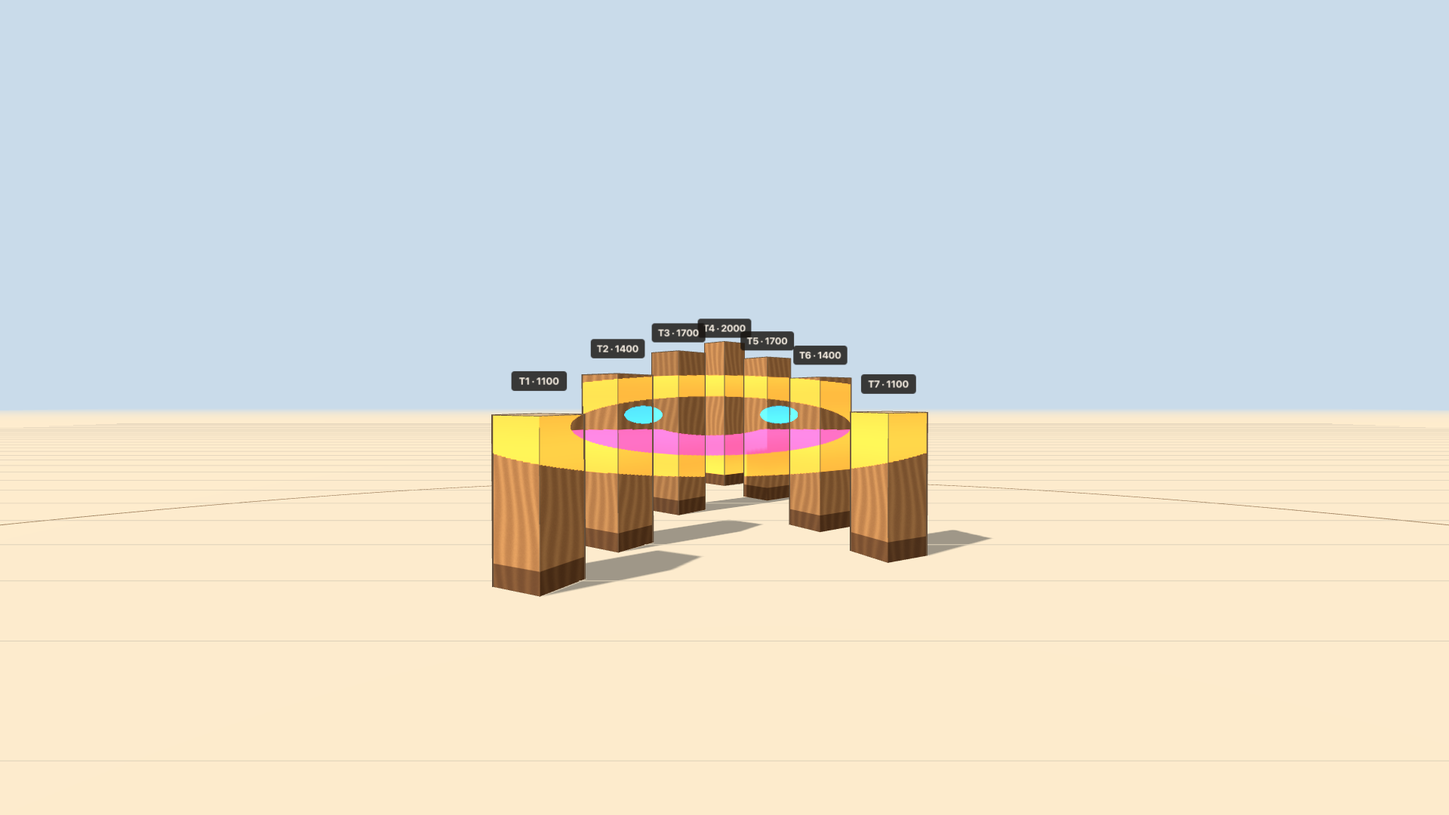
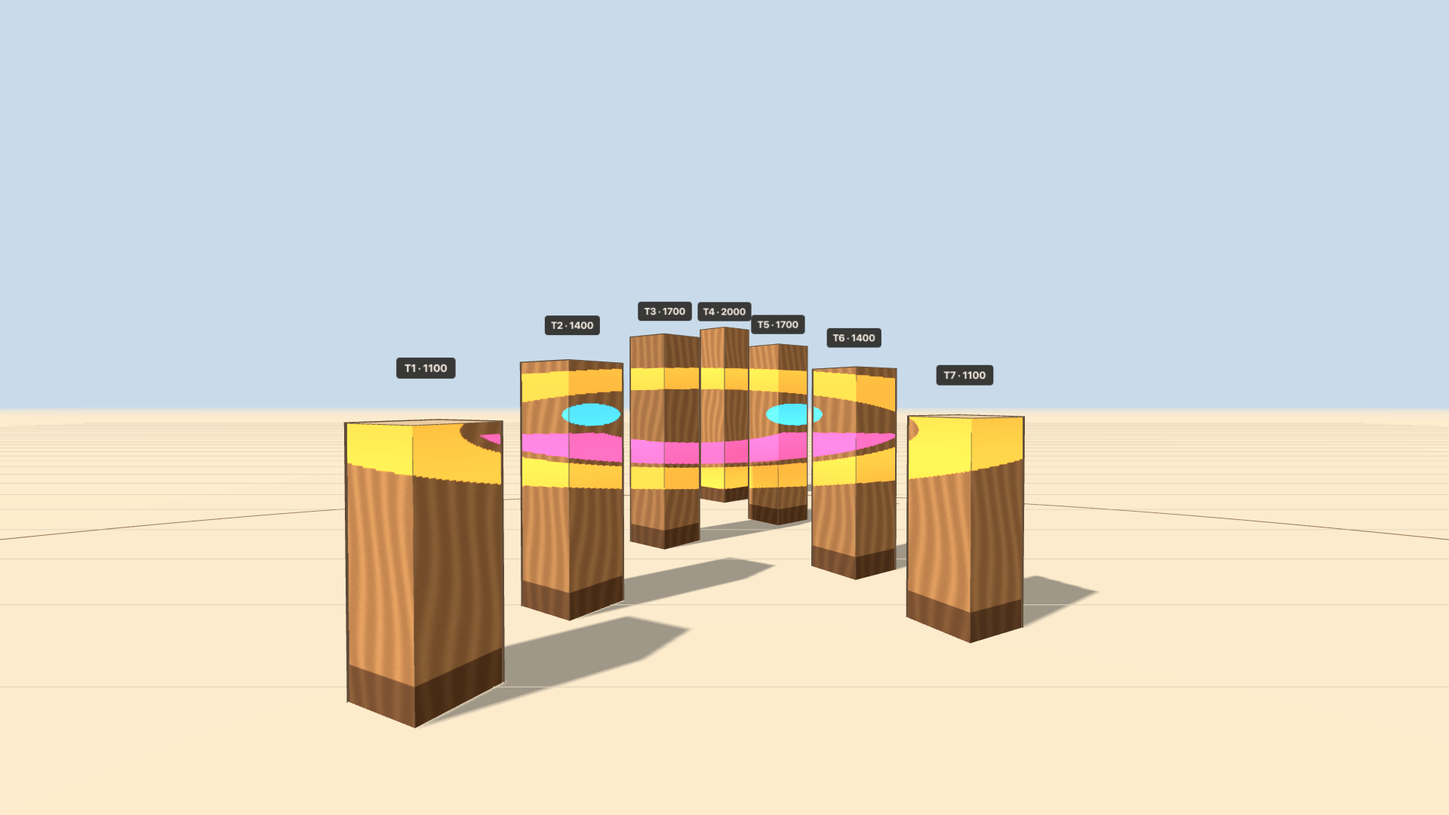
Sightline tool: bench at the centre, one eye point per statue
The audience sits on a circular bench at the centre facing out (owner,
2026-10-21; hence the 1200 mm eye). New bench-diameter control (default
3000 mm, a placeholder until the artist gives the size). Each statue gets
its own eye point on the bench edge: an eye-view button per statue, the
figure placed at each point, and the mural, level-top heights, gaps and
readout angles taken from that point. The solver places towers so they
touch from the eye point. Bench clearance is checked and exported; files
without a bench load with the eye at the centre.

Changed region(s): [[0.2188, 0.3667, 0.75, 0.8861], [0.8125, 0.6111, 0.8438, 0.6417]]

diff --git a/tools/statue_render.html b/tools/statue_render.html
@@ -79,7 +79,8 @@ body.shot .panel, body.shot .views, body.shot #pad, body.shot #hint, body.shot #
 <div id="view"></div>
 
 <div class="views" role="group" aria-label="Viewpoint">
-  <button id="btnCentre" aria-pressed="true" title="Press again to reset the camera">Centre view (eye)</button>
+  <button id="btnCentre" aria-pressed="true" title="Eye on the bench edge, facing statue 1. Press again to reset the camera">Eye · statue 1</button>
+  <button id="btnCentre2" aria-pressed="false" title="Eye on the bench edge, facing statue 2. Press again to reset the camera">Eye · statue 2</button>
   <button id="btnDrone" aria-pressed="false" title="Press again to reset the camera">Drone view</button>
   <button id="btnTop" aria-pressed="false">Top-down view</button>
   <button id="btnDrag" aria-pressed="false" title="Move towers by dragging them in any view">✥ Drag towers</button>
@@ -187,6 +188,7 @@ body.shot .panel, body.shot .views, body.shot #pad, body.shot #hint, body.shot #
     smin: num('smin', 1000), smax: num('smax', 3000), sopt: num('sopt', 3000),     // owner, 2026-10-21
     diam: num('d', 18000),
     clear: num('clear', 2350),          // smallest radius the viewer must have free at the centre
+    bench: num('bench', 3000),         // circular bench at the centre, mm; the audience sits on its edge facing out. PLACEHOLDER: the artist has not given the size
     mode: q.get('mode') === 'straight' ? 'straight' : 'touch',
     arm: num('arm', 25),
     eye: num('eye', 1200),               // owner, 2026-10-21: the audience sits
@@ -205,6 +207,7 @@ body.shot .panel, body.shot .views, body.shot #pad, body.shot #hint, body.shot #
   state.st[1] = JSON.parse(JSON.stringify(state.st[0]));
   let powerShown = false;
   let view = ['drone', 'top'].includes(q.get('view')) ? q.get('view') : 'centre';
+  let povStatue = q.get('pov') === '2' ? 1 : 0;   // which statue the eye view faces
   let dragMode = false;                // "Drag towers": left-drag moves towers in the eye and drone views too (always on in the top view)
   const canDrag = () => view === 'top' || dragMode;
   const activeCam = () => view === 'centre' ? camCentre : view === 'drone' ? camDrone : camTop;
@@ -218,10 +221,16 @@ body.shot .panel, body.shot .views, body.shot #pad, body.shot #hint, body.shot #
   const R = () => state.diam / 2000;               // the apex tower's far corner sits on this radius
   const hw = r => Math.atan(HALF() / r);           // angular half-width of a tower at distance r
   const wrap = a => Math.atan2(Math.sin(a), Math.cos(a));
+  // The audience sits on the bench edge facing its statue: one eye point per statue, on the apex axis.
+  const benchR = () => state.bench / 2000;
+  const povOf = s => { const a = s * Math.PI; return { x: benchR() * Math.sin(a), y: state.eye / 1000, z: -benchR() * Math.cos(a) }; };
+  const dPov = (t, s) => { const p = povOf(s); return Math.hypot(t.x - p.x, t.z - p.z); };
+  const azPov = (t, s) => { const p = povOf(s); return wrap(Math.atan2(t.x - p.x, -(t.z - p.z)) - s * Math.PI); };
+  const rfP = (t, s) => dPov(t, s) - HALF() / 2;   // face, mid-depth, from the eye
 
   // Arm from the apex (k = 0) towards the tip (k = 3): step k is a chord of chords[k] (m), each silhouette touching the last.
   function solveTouch(chords) {
-    const r = [R() - HALF()], th = [0];
+    const r = [R() - HALF() - benchR()], th = [0];
     let solved = true;
     for (let k = 0; k < 3; k++) {
       const rk = r[k], s = chords[k];
@@ -235,7 +244,7 @@ body.shot .panel, body.shot .views, body.shot #pad, body.shot #hint, body.shot #
     return { r, th, solved };
   }
   function solveStraight(chords) {
-    const r = [R() - HALF()], th = [0];
+    const r = [R() - HALF() - benchR()], th = [0];
     const phi = state.arm / DEG;
     let solved = true, along = 0;
     for (let k = 1; k <= 3; k++) {
@@ -249,8 +258,9 @@ body.shot .panel, body.shot .views, body.shot #pad, body.shot #hint, body.shot #
   }
   const solver = () => state.mode === 'touch' ? solveTouch : solveStraight;
   const uniform = s => solver()([s, s, s]);
-  const valid = arm => arm.solved && (arm.r[3] - HALF()) >= state.clear / 1000 - 1e-9
-    && Math.max(...arm.r) + HALF() <= R() + 1e-9;
+  // arm (r, th) is in the eye's frame; validity is judged from the circle's centre
+  const armCentreR = arm => arm.r.map((r, k) => Math.hypot(r * Math.sin(arm.th[k]), benchR() + r * Math.cos(arm.th[k])));
+  const valid = arm => { const rc = armCentreR(arm); return arm.solved && Math.min(...rc) - HALF() >= Math.max(state.clear / 1000, benchR()) - 1e-9 && Math.max(...rc) + HALF() <= R() + 1e-9; };
 
   // Spacing choice: the optimum if it works, else the largest working spacing below it (every step eats
   // radius, so validity only shrinks as spacing grows), clamped to [min, max].
@@ -287,17 +297,20 @@ body.shot .panel, body.shot .views, body.shot #pad, body.shot #hint, body.shot #
         const left = solver()([pm[2], pm[1], pm[0]]), right = solver()([pm[3], pm[4], pm[5]]);
         NAMES.forEach((n, i) => {
           const k = Math.abs(i - 3), arm = i < 3 ? left : right, side = i < 3 ? -1 : 1;
-          const r = arm.r[k], th = side * arm.th[k] + off;
-          towers.push({ name: n, statue: s + 1, idx: s * 7 + i, h: c.h[i] / 1000, r, th, x: r * Math.sin(th), z: -r * Math.cos(th), solved: arm.solved });
+          // eye frame → statue-1 frame (eye sits benchR before the centre) → world (statue 2 rotated 180°)
+          const ex = arm.r[k] * Math.sin(side * arm.th[k]), ez = -benchR() - arm.r[k] * Math.cos(side * arm.th[k]);
+          const x = s ? -ex : ex, z = s ? -ez : ez;
+          towers.push({ name: n, statue: s + 1, idx: s * 7 + i, h: c.h[i] / 1000, r: Math.hypot(x, z), th: Math.atan2(x, -z), x, z, solved: arm.solved });
         });
       }
     }
     const solved = towers.every(t => t.solved);
     const farMax = Math.max(...towers.map(t => t.r + HALF()));
     const clear = Math.min(...towers.map(t => t.r - HALF()));
-    const fits = solved && farMax <= R() + 1e-9 && clear >= state.clear / 1000 - 1e-9;
+    const benchGap = clear - benchR();                       // nearest tower corner beyond the bench edge (negative: overlap)
+    const fits = solved && farMax <= R() + 1e-9 && clear >= state.clear / 1000 - 1e-9 && benchGap >= -1e-9;
     if (typeof showPairs === 'function') showPairs(towers);
-    return { towers, choice, solved, farMax, clear, fits };
+    return { towers, choice, solved, farMax, clear, benchGap, fits };
   }
   const statueTowers = (L, s) => L.towers.filter(t => t.statue === s + 1);
   const relAz = (t, s) => wrap(t.th - s * Math.PI);
@@ -306,17 +319,17 @@ body.shot .panel, body.shot .views, body.shot #pad, body.shot #hint, body.shot #
   // Heights (mm) that put every top on one line from the eye: (h − eye)/r equal to the apex tower's.
   function levelHeights(L, s) {
     const eye = state.eye / 1000, T = statueTowers(L, s);
-    const c = (cfg(s).h[3] / 1000 - eye) / rf(T[3]);
-    return T.map(t => Math.round((eye + c * rf(t)) * 100) * 10);
+    const c = (cfg(s).h[3] / 1000 - eye) / rfP(T[3], s);
+    return T.map(t => Math.round((eye + c * rfP(t, s)) * 100) * 10);
   }
 
   // Per-statue mural in the viewer's angular space (azimuth relative to the statue, elevation).
   function muralSpec(L, s) {
     const eye = state.eye / 1000, T = statueTowers(L, s);
-    const lo = Math.min(...T.map(t => relAz(t, s) - hw(t.r))), hi = Math.max(...T.map(t => relAz(t, s) + hw(t.r)));
+    const lo = Math.min(...T.map(t => azPov(t, s) - hw(dPov(t, s)))), hi = Math.max(...T.map(t => azPov(t, s) + hw(dPov(t, s))));
     // the band every tower from T2 to T6 can show: lowest top among them, the apex tower's (highest) bottom
-    const elTop = Math.min(...[1, 2, 3, 4, 5].map(i => Math.atan((T[i].h - eye) / rf(T[i]))));
-    const elBot = Math.atan((BASE - eye) / rf(T[3]));
+    const elTop = Math.min(...[1, 2, 3, 4, 5].map(i => Math.atan((T[i].h - eye) / rfP(T[i], s))));
+    const elBot = Math.atan((BASE - eye) / rfP(T[3], s));
     const cy = (elTop + elBot) / 2;
     return { cx: (lo + hi) / 2, cy, rx: Math.max(0.05, (hi - lo) / 2 * 0.90), ry: Math.max(0.02, (elTop - elBot) / 2 * 0.84), stroke: 2.0 / DEG };
   }
@@ -377,9 +390,9 @@ body.shot .panel, body.shot .views, body.shot #pad, body.shot #hint, body.shot #
   const mark = new THREE.Mesh(new THREE.RingGeometry(0.0, 0.08, 32), ringMat);
   mark.rotation.x = -Math.PI / 2; mark.position.y = 0.004; scene.add(mark);
 
-  // Human figure for scale, 1.75 m, at the centre. Hidden in the centre view (the camera is its eye).
-  const person = new THREE.Group();
-  {
+  // Human figures for scale, 1.75 m, one at each eye point on the bench edge. The one whose eye the camera uses is hidden.
+  const persons = [0, 1].map(() => {
+    const person = new THREE.Group();
     const cloth = new THREE.MeshStandardMaterial({ color: 0x2f5fb8, roughness: 0.9 });
     const skin = new THREE.MeshStandardMaterial({ color: 0xe3b48f, roughness: 0.8 });
     const add = (geo, mat, x, y, z) => { const m = new THREE.Mesh(geo, mat); m.position.set(x, y, z); m.castShadow = true; person.add(m); };
@@ -389,8 +402,9 @@ body.shot .panel, body.shot .views, body.shot #pad, body.shot #hint, body.shot #
     add(new THREE.CylinderGeometry(0.045, 0.04, 0.62, 10), skin, -0.23, 1.1, 0);
     add(new THREE.CylinderGeometry(0.045, 0.04, 0.62, 10), skin, 0.23, 1.1, 0);
     add(new THREE.SphereGeometry(0.11, 18, 14), skin, 0, 1.62, 0);
-  }
-  scene.add(person);
+    scene.add(person);
+    return person;
+  });
   const towersGroup = new THREE.Group(); scene.add(towersGroup);
 
   // ---------- Textures ----------
@@ -398,14 +412,14 @@ body.shot .panel, body.shot .views, body.shot #pad, body.shot #hint, body.shot #
   function hash(x, y, s) { const v = Math.sin(x * 12.9898 + y * 78.233 + s * 37.719) * 43758.5453; return v - Math.floor(v); }
   const FEATURE_RGB = { 1: [255, 177, 59], 2: [79, 216, 255], 3: [255, 95, 168] };
 
-  function faceTextures(h, worldAt, statueAz, spec, seed, lit) {
+  function faceTextures(h, worldAt, statueAz, spec, seed, lit, eyePos) {
     const w = W();
     const cols = Math.max(8, Math.round(w * PX_PER_M)), rows = Math.max(8, Math.round(h * PX_PER_M));
     const c1 = document.createElement('canvas'), c2 = document.createElement('canvas');
     c1.width = c2.width = cols; c1.height = c2.height = rows;
     const g1 = c1.getContext('2d'), g2 = c2.getContext('2d');
     const d1 = g1.createImageData(cols, rows), d2 = g2.createImageData(cols, rows);
-    const eye = new THREE.Vector3(0, state.eye / 1000, 0);
+    const eye = eyePos.clone();
     const p = new THREE.Vector3();
     const tint = 0.9 + 0.2 * hash(seed, 1, 2);
     for (let j = 0; j < rows; j++) {
@@ -477,6 +491,8 @@ body.shot .panel, body.shot .views, body.shot #pad, body.shot #hint, body.shot #
 
     const L = layout(); current = L;
     const specs = [muralSpec(L, 0), muralSpec(L, 1)];
+    const eyes = [0, 1].map(s => { const p = povOf(s); return new THREE.Vector3(p.x, p.y, p.z); });
+    persons.forEach((g, s) => { const p = povOf(s); g.position.set(p.x, 0, p.z); g.rotation.y = s * Math.PI; });
     const w = W();
     const edgeMat = new THREE.LineBasicMaterial({ color: 0x2a1a0e });
     const hullMat = new THREE.MeshBasicMaterial({ color: 0x1e120a, side: THREE.BackSide });
@@ -498,7 +514,7 @@ body.shot .panel, body.shot .views, body.shot #pad, body.shot #hint, body.shot #
         const centre = new THREE.Vector3(f.c[0], t.h / 2, f.c[2]);
         const worldAt = (u, v, out) => { out.copy(centre).addScaledVector(right, (u - 0.5) * w); out.y = v * t.h; return g.localToWorld(out); };
         const key = inner ? fi : (fi + 2) % 4;      // outer faces repeat the face opposite: all faces show the same pixels
-        if (!texCache[key]) texCache[key] = faceTextures(t.h, worldAt, statueAz, spec, t.idx * 7 + fi, inner);
+        if (!texCache[key]) texCache[key] = faceTextures(t.h, worldAt, statueAz, spec, t.idx * 7 + fi, inner, eyes[t.statue - 1]);
         const tex = texCache[key];
         const mat = new THREE.MeshStandardMaterial({ map: tex.map, emissiveMap: tex.emissiveMap, emissive: 0xffffff, emissiveIntensity: 1.1, roughness: 0.9, metalness: 0 });
         const m = new THREE.Mesh(new THREE.PlaneGeometry(w, t.h), mat);
@@ -530,33 +546,34 @@ body.shot .panel, body.shot .views, body.shot #pad, body.shot #hint, body.shot #
   function statueTable(L, s) {
     const eye = state.eye / 1000, T = statueTowers(L, s);
     const rows = T.map((t, i) => {
-      const appH = (Math.atan((t.h - eye) / rf(t)) - Math.atan((BASE - eye) / rf(t))) * DEG;
-      const top = Math.atan((t.h - eye) / rf(t)) * DEG;
+      const appH = (Math.atan((t.h - eye) / rfP(t, s)) - Math.atan((BASE - eye) / rfP(t, s))) * DEG;
+      const top = Math.atan((t.h - eye) / rfP(t, s)) * DEG;
       let gap = '', cls = '';
       if (i < 6) {
-        const n = T[i + 1], gv = (Math.abs(wrap(n.th - t.th)) - hw(t.r) - hw(n.r)) * DEG;
+        const n = T[i + 1], gv = (Math.abs(wrap(azPov(n, s) - azPov(t, s))) - hw(dPov(t, s)) - hw(dPov(n, s))) * DEG;
         gap = (gv >= 0 ? '+' : '') + gv.toFixed(1);
         cls = Math.abs(gv) < 0.3 ? 'ok' : (gv < 0 ? 'bad' : '');
       }
-      return `<tr><td>${t.name} · ${mm(t.h)}</td><td>${mm(t.r)}</td><td>${(relAz(t, s) * DEG).toFixed(1)}</td><td class="${cls}">${gap}</td><td>${top.toFixed(1)}</td><td>${appH.toFixed(1)}</td></tr>`;
+      return `<tr><td>${t.name} · ${mm(t.h)}</td><td>${mm(t.r)}</td><td>${mm(dPov(t, s))}</td><td>${(azPov(t, s) * DEG).toFixed(1)}</td><td class="${cls}">${gap}</td><td>${top.toFixed(1)}</td><td>${appH.toFixed(1)}</td></tr>`;
     }).join('');
-    const span = Math.max(...T.map(t => Math.abs(relAz(t, s)) + hw(t.r))) * DEG;
+    const span = Math.max(...T.map(t => Math.abs(azPov(t, s)) + hw(dPov(t, s)))) * DEG;
     const spacings = [0, 1, 2, 3, 4, 5].map(i => Math.hypot(T[i].x - T[i + 1].x, T[i].z - T[i + 1].z));
-    return `<table><thead><tr><th>Statue ${s + 1}</th><th>r</th><th>az °</th><th>gap °</th><th>top °</th><th>lit °</th></tr></thead><tbody>${rows}</tbody></table>
-      <p class="note">Spans ±${span.toFixed(0)}° of the view from its apex direction. Spacing T1–T2 … T6–T7: ${spacings.map(mm).join(' / ')} mm.</p>`;
+    return `<table><thead><tr><th>Statue ${s + 1}</th><th>r</th><th>d</th><th>az °</th><th>gap °</th><th>top °</th><th>lit °</th></tr></thead><tbody>${rows}</tbody></table>
+      <p class="note">Spans ±${span.toFixed(0)}° of the view from its eye point. Spacing T1–T2 … T6–T7: ${spacings.map(mm).join(' / ')} mm.</p>`;
   }
   function updateReadout(L) {
     const c = L.choice;
     const tables = statueTable(L, 0) + (state.decoupled ? statueTable(L, 1) : '<p class="note">Statue 2 mirrors statue 1.</p>');
     $('readout').innerHTML = `${tables}
-      <p class="note">r: tower centre to the circle centre, mm. az: azimuth from the statue's apex direction. gap: angular gap to the next silhouette from the eye; negative = the nearer tower hides part of the next (green = touching). top: elevation of the tower top above the eye line. lit: angle the lit part subtends.</p>
+      <p class="note">r: tower centre to the circle centre, mm. d: tower centre to this statue's eye point on the bench edge, mm. az: azimuth from that eye point, relative to the statue's apex direction. gap: angular gap to the next silhouette from the eye; negative = the nearer tower hides part of the next (green = touching). top: elevation of the tower top above the eye line. lit: angle the lit part subtends.</p>
       <p class="note">Free radius at the centre (nearest corner of any tower): <b>${mm(L.clear)} mm</b>. Farthest corner: ${mm(L.farMax)} mm from the centre (${L.farMax <= R() + 0.0005 ? 'inside' : 'outside'} the Ø ${state.diam} circle).</p>
+      ${L.benchGap >= 0 ? `<p class="note">Bench Ø ${state.bench}: the nearest tower corner is <b>${mm(L.benchGap)} mm</b> beyond the bench edge.</p>` : `<p class="warn">Bench Ø ${state.bench} overlaps the towers: the nearest tower corner is ${mm(-L.benchGap)} mm inside the bench edge.</p>`}
       ${L.solved ? '' : '<p class="warn">No solution: an arm reaches the centre before its tip tower. That tip is clamped at 200 mm.</p>'}`;
     // level-top heights, per statue when decoupled
     const lv = [levelHeights(L, 0)].concat(state.decoupled ? [levelHeights(L, 1)] : []);
     const same = lv.every((arr, s) => arr.every((v, i) => v === cfg(s).h[i]));
     $('levelNote').innerHTML = same
-      ? 'These heights put every top on one line from the eye at the centre.'
+      ? 'These heights put every top on one line from the eye on the bench edge.'
       : lv.map((arr, s) => `${state.decoupled ? `Statue ${s + 1}: ` : ''}${NAMES.map((n, i) => `${n} ${arr[i]}`).join(' · ')} mm`).join('<br>') + ' (T4 kept, for the current layout, side, circle and eye height).';
     levelPending = lv;
 
@@ -567,7 +584,7 @@ body.shot .panel, body.shot .views, body.shot #pad, body.shot #hint, body.shot #
       const how = state.free ? 'Towers moved freely' : 'Individual spacings set by hand';
       res.innerHTML = L.fits
         ? `${how}. They fit: inside the circle, with ${mm(L.clear)} mm free at the centre.`
-        : `<span class="warn">${how}. They do not fit: ${L.farMax > R() + 0.0005 ? 'a tower crosses the circle; ' : ''}${L.clear < state.clear / 1000 - 1e-9 ? `only ${mm(L.clear)} mm free at the centre (wanted ${state.clear}); ` : ''}${L.solved ? '' : 'an arm reaches the centre.'}</span>`;
+        : `<span class="warn">${how}. They do not fit: ${L.farMax > R() + 0.0005 ? 'a tower crosses the circle; ' : ''}${L.clear < state.clear / 1000 - 1e-9 ? `only ${mm(L.clear)} mm free at the centre (wanted ${state.clear}); ` : ''}${L.benchGap < 0 ? `a tower stands ${mm(-L.benchGap)} mm into the Ø ${state.bench} bench; ` : ''}${L.solved ? '' : 'an arm reaches the centre.'}</span>`;
       return;
     }
     const sUsed = `<b>${mm(c.s)} mm</b>`;
@@ -707,10 +724,12 @@ body.shot .panel, body.shot .views, body.shot #pad, body.shot #hint, body.shot #
     camTop.left = -hwid; camTop.right = hwid; camTop.top = hh; camTop.bottom = -hh; camTop.updateProjectionMatrix();
     scaleBar.position.set(hwid - 1.0, 0, hh - 0.7);           // bottom-right of the top-down frame
     scaleBar.visible = view === 'top';
-    person.visible = view !== 'centre';
+    persons.forEach((g, s) => { g.visible = !(view === 'centre' && s === povStatue); });
     controls.enabled = view === 'drone';
     look.enabled = view === 'centre';
-    ['Centre', 'Drone', 'Top'].forEach(n => $('btn' + n).setAttribute('aria-pressed', view === n.toLowerCase()));
+    $('btnCentre').setAttribute('aria-pressed', view === 'centre' && povStatue === 0);
+    $('btnCentre2').setAttribute('aria-pressed', view === 'centre' && povStatue === 1);
+    ['Drone', 'Top'].forEach(n => $('btn' + n).setAttribute('aria-pressed', view === n.toLowerCase()));
     const leftFree = !dragMode;      // left button and one finger go to the camera unless towers are being dragged
     controls.mouseButtons.LEFT = leftFree ? THREE.MOUSE.ROTATE : -1; controls.touches.ONE = leftFree ? THREE.TOUCH.ROTATE : -1;
     look.mouseButtons.LEFT = leftFree ? THREE.MOUSE.ROTATE : -1; look.touches.ONE = leftFree ? THREE.TOUCH.ROTATE : -1;
@@ -724,9 +743,10 @@ body.shot .panel, body.shot .views, body.shot #pad, body.shot #hint, body.shot #
   }
   function resetCentre() {
     if (!current) return;
-    camCentre.position.set(0, state.eye / 1000, 0);
-    const apex = statueTowers(current, 0)[3];
-    const target = new THREE.Vector3(apex.x * 0.98, (cfg(0).h[3] / 1000 + BASE) / 2 * 0.9 + state.eye / 1000 * 0.1, apex.z * 0.98);
+    const p = povOf(povStatue);
+    camCentre.position.set(p.x, p.y, p.z);
+    const apex = statueTowers(current, povStatue)[3];
+    const target = new THREE.Vector3(apex.x * 0.98, (cfg(povStatue).h[3] / 1000 + BASE) / 2 * 0.9 + state.eye / 1000 * 0.1, apex.z * 0.98);
     const dir = target.sub(camCentre.position).normalize();
     look.target.copy(camCentre.position).addScaledVector(dir, 0.5);
     look.update();
@@ -880,7 +900,7 @@ body.shot .panel, body.shot .views, body.shot #pad, body.shot #hint, body.shot #
 
   // Solver settings: anything the solved layout depends on. Changing one while spacings or positions were set by
   // hand asks first; "keep mine" puts the setting back as it was.
-  const SOLVER_KEYS = ['smin', 'smax', 'sopt', 'diam', 'clear', 'side', 'arm', 'mode'];
+  const SOLVER_KEYS = ['smin', 'smax', 'sopt', 'diam', 'clear', 'bench', 'side', 'arm', 'mode'];
   let snap = null;
   const solverSetter = (key, fn) => v => { if (!askOpen && isCustom() && !snap) snap = Object.fromEntries(SOLVER_KEYS.map(k => [k, state[k]])); fn(v); };
   const solverAfter = () => {
@@ -927,6 +947,7 @@ body.shot .panel, body.shot .views, body.shot #pad, body.shot #hint, body.shot #
   });
   paramRow($('circleParams'), 'diam', 'Circle diameter (to the farthest corners)', 3000, 20000, 100, 'mm', () => state.diam, solverSetter('diam', v => state.diam = v), solverAfter);
   paramRow($('circleParams'), 'clear', 'Free radius the viewer keeps at the centre', 0, 3000, 50, 'mm', () => state.clear, solverSetter('clear', v => state.clear = v), solverAfter);
+  paramRow($('circleParams'), 'bench', 'Bench diameter at the centre (eyes sit on its edge)', 0, 8000, 50, 'mm', () => state.bench, solverSetter('bench', v => state.bench = v), solverAfter);
   const repower = () => { if (powerShown) computePower(); };
   paramRow($('powerParams'), 'unlit', 'Unlit base at the foot of each face', 0, 500, 10, 'mm', () => state.unlit, v => state.unlit = v, repower);
   paramRow($('powerParams'), 'lpm', 'LEDs per metre', 30, 144, 1, '/m', () => state.lpm, v => state.lpm = v, repower);
@@ -947,7 +968,8 @@ body.shot .panel, body.shot .views, body.shot #pad, body.shot #hint, body.shot #
     build();
   });
   // View buttons: switch, or reset the camera when the view is already active.
-  $('btnCentre').addEventListener('click', () => { if (view === 'centre') resetCentre(); view = 'centre'; applyView(); });
+  $('btnCentre').addEventListener('click', () => { const same = view === 'centre' && povStatue === 0; povStatue = 0; view = 'centre'; if (same) resetCentre(); else resetCentre(); applyView(); });
+  $('btnCentre2').addEventListener('click', () => { povStatue = 1; view = 'centre'; resetCentre(); applyView(); });
   $('btnDrone').addEventListener('click', () => { if (view === 'drone') droneHome(); view = 'drone'; applyView(); });
   $('btnTop').addEventListener('click', () => { view = 'top'; applyView(); });
   $('btnDrag').addEventListener('click', () => { dragMode = !dragMode; applyView(); });
@@ -972,7 +994,7 @@ body.shot .panel, body.shot .views, body.shot #pad, body.shot #hint, body.shot #
       spacing_mm: { min: state.smin, max: state.smax, optimum: state.sopt, pairs: [...state.st[0].pairs], pair_names: PAIR_NAMES, manual: state.st[0].manual },
       statue2: state.decoupled ? statueParams(state.st[1]) : null,                 // null: statue 2 mirrors statue 1
       free_positions_mm: state.free ? { statue1: state.free.s1.map(([x, z]) => [mm(x), mm(-z)]), statue2: state.free.s2.map(([x, z]) => [mm(x), mm(-z)]) } : null,
-      circle_diameter_mm: state.diam, free_radius_mm: state.clear,
+      circle_diameter_mm: state.diam, free_radius_mm: state.clear, bench_diameter_mm: state.bench,
       arm: { method: state.mode, angle_deg: state.arm },
       viewer: { eye_mm: state.eye, fov_deg: state.hfov },
       leds: { unlit_base_mm: state.unlit, per_m: state.lpm, mA_per_led: state.mA, psu_max_A: state.psuA, reel_mm: state.reel },
@@ -998,11 +1020,13 @@ body.shot .panel, body.shot .views, body.shot #pad, body.shot #hint, body.shot #
         towers: T.map((t, i) => ({
           name: t.name, height_mm: Math.round(t.h * 1000), lit_mm: Math.round(pw.lit[i] * 1000), leds_per_face: pw.leds[i],
           r_mm: mm(t.r), azimuth_deg: r1(wrap(t.th) * DEG), x_mm: mm(t.x), y_mm: mm(-t.z),
+          d_eye_mm: mm(dPov(t, s)), azimuth_from_eye_deg: r1(azPov(t, s) * DEG),
           corner_towards_centre: true, box_yaw_deg: r1(((wrap(t.th) * DEG) + 45 + 360) % 360),
           spacing_to_next_mm: i < 6 ? mm(Math.hypot(T[i + 1].x - t.x, T[i + 1].z - t.z)) : null,
           full_white_A: r1(pw.amps[i]),
         })),
-        half_span_deg: r1(Math.max(...T.map(t => Math.abs(relAz(t, s)) + hw(t.r))) * DEG),
+        eye_point: { x_mm: mm(povOf(s).x), y_mm: mm(-povOf(s).z), eye_mm: state.eye },
+        half_span_deg: r1(Math.max(...T.map(t => Math.abs(azPov(t, s)) + hw(dPov(t, s)))) * DEG),
         level_top_heights_mm: levelHeights(L, s),
       };
     });
@@ -1019,7 +1043,7 @@ body.shot .panel, body.shot .views, body.shot #pad, body.shot #hint, body.shot #
       params: paramsObject(),
       layout: {
         fits: L.fits, spacing_used_mm: L.choice ? mm(L.choice.s) : null, spacing_reason: L.choice ? L.choice.reason : (state.free ? 'free' : 'manual'),
-        free_radius_mm: mm(L.clear), farthest_corner_mm: mm(L.farMax), statues,
+        free_radius_mm: mm(L.clear), farthest_corner_mm: mm(L.farMax), bench_clearance_mm: mm(L.benchGap), statues,
       },
       leds_power: {
         per_side: side(pws[0]), side_2: state.decoupled ? side(pws[1]) : null,
@@ -1045,6 +1069,7 @@ body.shot .panel, body.shot .views, body.shot #pad, body.shot #hint, body.shot #
     state.free = (F && Array.isArray(F.statue1) && F.statue1.length === 7 && Array.isArray(F.statue2) && F.statue2.length === 7)
       ? { s1: F.statue1.map(([x, y]) => [x / 1000, -y / 1000]), s2: F.statue2.map(([x, y]) => [x / 1000, -y / 1000]) } : null;
     setIf('diam', P.circle_diameter_mm); setIf('clear', P.free_radius_mm);
+    setParam('bench', typeof P.bench_diameter_mm === 'number' ? P.bench_diameter_mm : 0);   // older files had the eye at the centre
     if (P.arm) { if (P.arm.method === 'touch' || P.arm.method === 'straight') { state.mode = P.arm.method; $('mode').value = state.mode; $('armParams').hidden = state.mode !== 'straight'; } setIf('arm', P.arm.angle_deg); }
     if (P.viewer) { setIf('eye', P.viewer.eye_mm); setIf('hfov', P.viewer.fov_deg); }
     if (P.leds) { setIf('unlit', P.leds.unlit_base_mm); setIf('lpm', P.leds.per_m); setIf('mA', P.leds.mA_per_led); setIf('psuA', P.leds.psu_max_A); setIf('reel', P.leds.reel_mm); }

diff --git a/docs/strips_and_power/statue_geometry.md b/docs/strips_and_power/statue_geometry.md
@@ -28,7 +28,7 @@ the smiley from the eye point onto the faces that look at the centre, renders th
 (horizontal field of view 100°, eye 1.6 m), a drone view with a 1.75 m figure at the centre and a
 top-down plan (orthographic, 1 m grid, a "1 m" bar at the bottom right), and prints per tower:
 distance, azimuth, angular gap to the neighbour, top elevation and the angle its lit part
-subtends. Headless Chrome produced `renders/*.png` from URL parameters (`view=centre|drone|top`,
+subtends. Headless Chrome produced `renders/*.png` from URL parameters (`view=centre|drone|top`, `pov=2` for the statue 2 eye, `bench`,
 `side`, `h1`–`h7`, `smin`, `smax`, `sopt`, `p1`–`p6` with `manual=1`, `d`, `clear`, `eye`,
 `fov`, `shot=1`), and `?dump=1` prints the export JSON instead of the page.
 
@@ -111,13 +111,31 @@ build time and surprises. The same file is also published as a private claude.ai
 
 `layout/statue-layout.json` is the artist's export of 2026-10-21 and the project default in
 the tool (owner: the build must be finished within a week, so these are the sizes). Heights
-1100 / 1400 / 1700 / 2000 mm; towers placed by hand (free positions, so the solver is bypassed
+1100 / 1400 / 1700 / 2000 mm; a bench at the centre (below); towers placed by hand (free positions, so the solver is bypassed
 until "Reset to the solved layout" or `?solved=1`); circle Ø 18 m, apexes 17.4 m apart
 (8.7 m from the centre), tips 4.1 m from the centre, 2.35 m kept free; eye 1200 mm (a seated
 audience); spacing range 1000–3000 mm with hand-set pairs 1120 / 1590 / 2200 / 1340 / 1760 /
 1102 mm. Statue 2 mirrors statue 1. Consequences recorded elsewhere: LED counts and currents
 ([led_power_budget.md](led_power_budget.md)), trench segments ([trenches.md](trenches.md)),
 the CAT5e length ([../data_link/cabling.md](../data_link/cabling.md)).
+
+### The bench at the centre (owner, 2026-10-21)
+
+A circular bench stands at the centre; the audience sits on its edge facing out, which is why
+the eye height is 1200 mm. The artist placed the towers before mentioning it. **Its diameter
+is not known yet**: the tool's default of 3000 mm is a placeholder (agent, 2026-10-21) that the
+owner must replace. Consequences in the tool:
+- **One eye point per statue, on the bench edge, on the apex axis** (owner): the eye view has a
+  button per statue, the figure stands at each eye point (the bench itself is not drawn), and
+  the mural, the level-top heights, the gaps and the readout angles are all taken from that
+  point, not from the centre. The solver also places towers so that silhouettes touch from the
+  eye point: it works in the eye's frame and checks the circle and the free radius from the
+  centre.
+- **Bench clearance is checked**: the nearest tower corner must lie beyond the bench edge; the
+  result box and the readout say by how much, or by how much a tower stands inside the bench.
+  `fits` in the export includes it, and `layout.bench_clearance_mm` records it.
+- Files without `bench_diameter_mm` (versions 1 and 2 before this change) load with the eye at
+  the centre, as they were made.
 
 ## Earlier findings (agent, 2026-10-19, on the 8 m circle that preceded the final layout)
 
